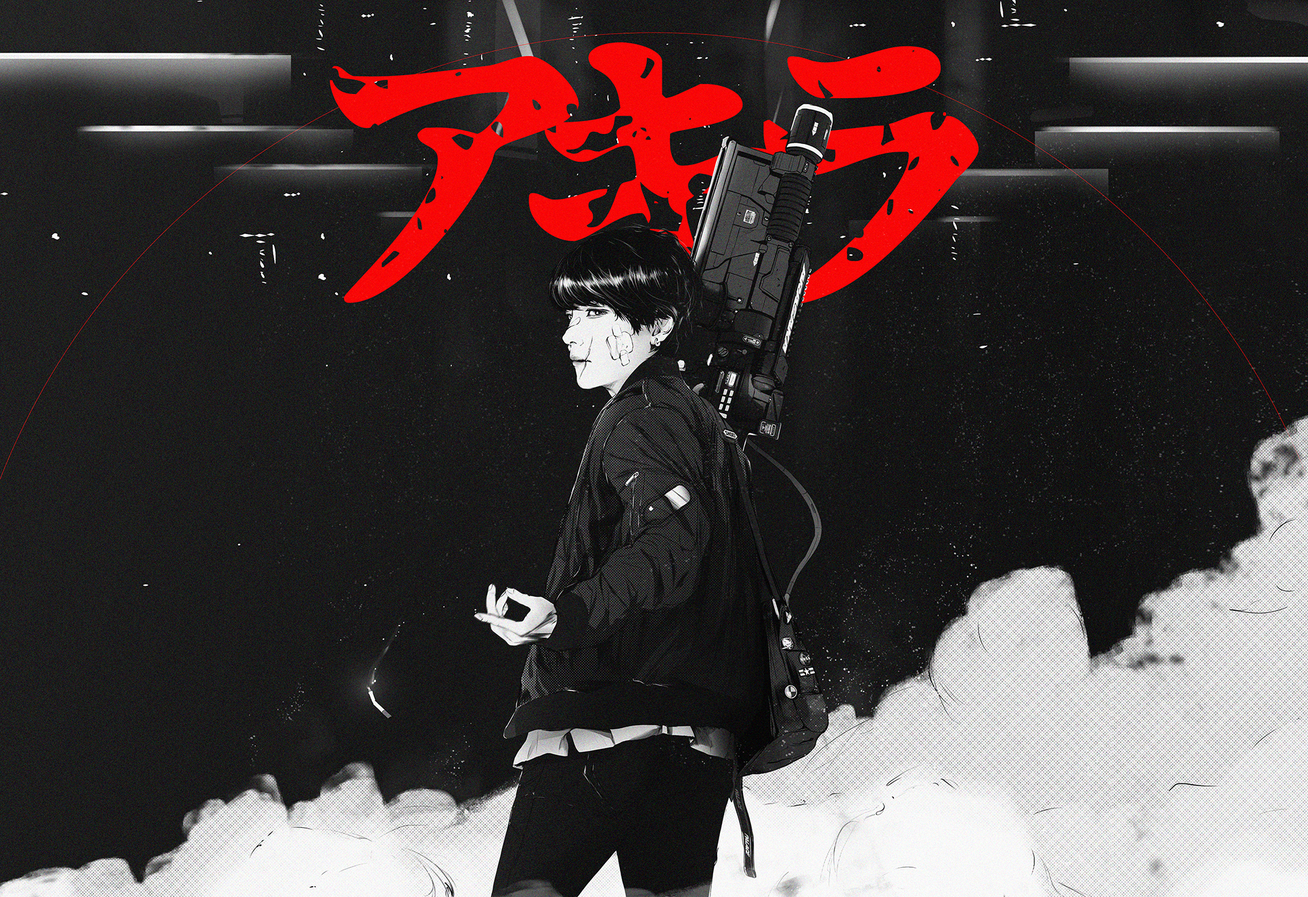
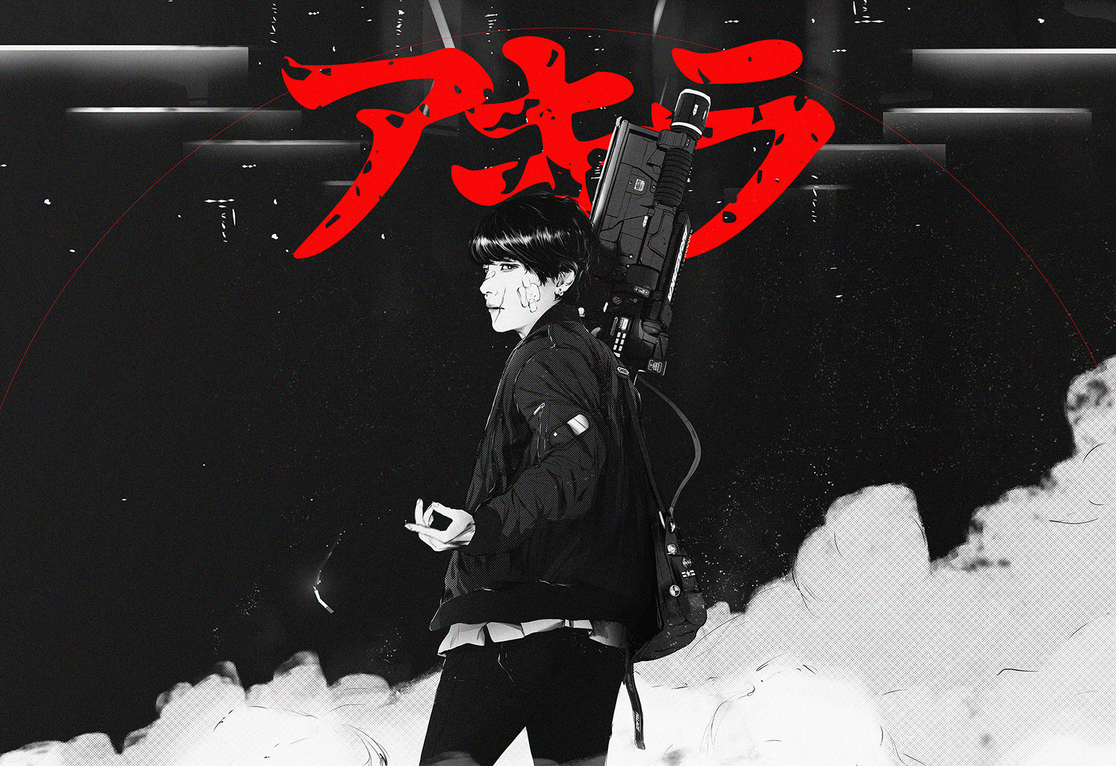
edits

Changed region(s): [[0.4636, 0.4329, 0.4945, 0.4638], [0.4327, 0.3092, 0.4636, 0.3401]]

diff --git a/extracurricular.html b/extracurricular.html
@@ -52,7 +52,7 @@
   </div>
 
 <div class="front_artwork_text_bottom">
-  <h1>인간수업 - "EXTRACURRICULAR"</h1>
+  <h1>人間レッスン - "EXTRACURRICULAR"</h1>
   <h5>“So stubborn, don’t talk back, know your place” - these are common retorts found in all East Asian countries. <br> <br> East Asian cultures are extremely patriarchal, hierarchical - those who are older or hold higher status than you can act upon you with impunity. This body of work explores the fashion and character designs of young asian students in a dystopia world.</h5>
 </div>
 
@@ -108,7 +108,7 @@
   </div>
 
 <div class="front_artwork_text_bottom">
-  <h5>IM SEOKJIN</h5>
+  <h5>SHOTARO KANEDA</h5>
 </div>
 
 <div class="front_artwork">
@@ -134,9 +134,9 @@
 </div>
 
 <div class="front_artwork">
-   <img class="cyberpunk_hifumi_resize" style ="max-height: 100%;" src="images/raymond-lam_kaneda_landscape_noText_small_web.jpg" data-src="images/raymond-lam_kaneda_landscape_noText_small_web.jpg" data-srcset="images/raymond-lam_kaneda_landscape_noText_small_web.jpg" alt="man motorcycle anime futuristic neon tokyo"></img>
+   <img class="cyberpunk_hifumi_resize" style ="max-height: 100%;" src="images/raymond-lam_kaneda_landscape_small_web.jpg" data-src="images/raymond-lam_kaneda_landscape_small_web.jpg" data-srcset="images/raymond-lam_kaneda_landscape_small_web.jpg" alt="man motorcycle anime futuristic neon tokyo"></img>
     <div class="image_assets">
-          <a href="images/raymond-lam_kaneda_landscape_noText_small_web.jpg" class="buttons" target="_blank" target="_blank"><i class="material-icons">crop_free</i></a>
+          <a href="images/raymond-lam_kaneda_landscape_small_web.jpg" class="buttons" target="_blank" target="_blank"><i class="material-icons">crop_free</i></a>
       </div>
   </div>
 
